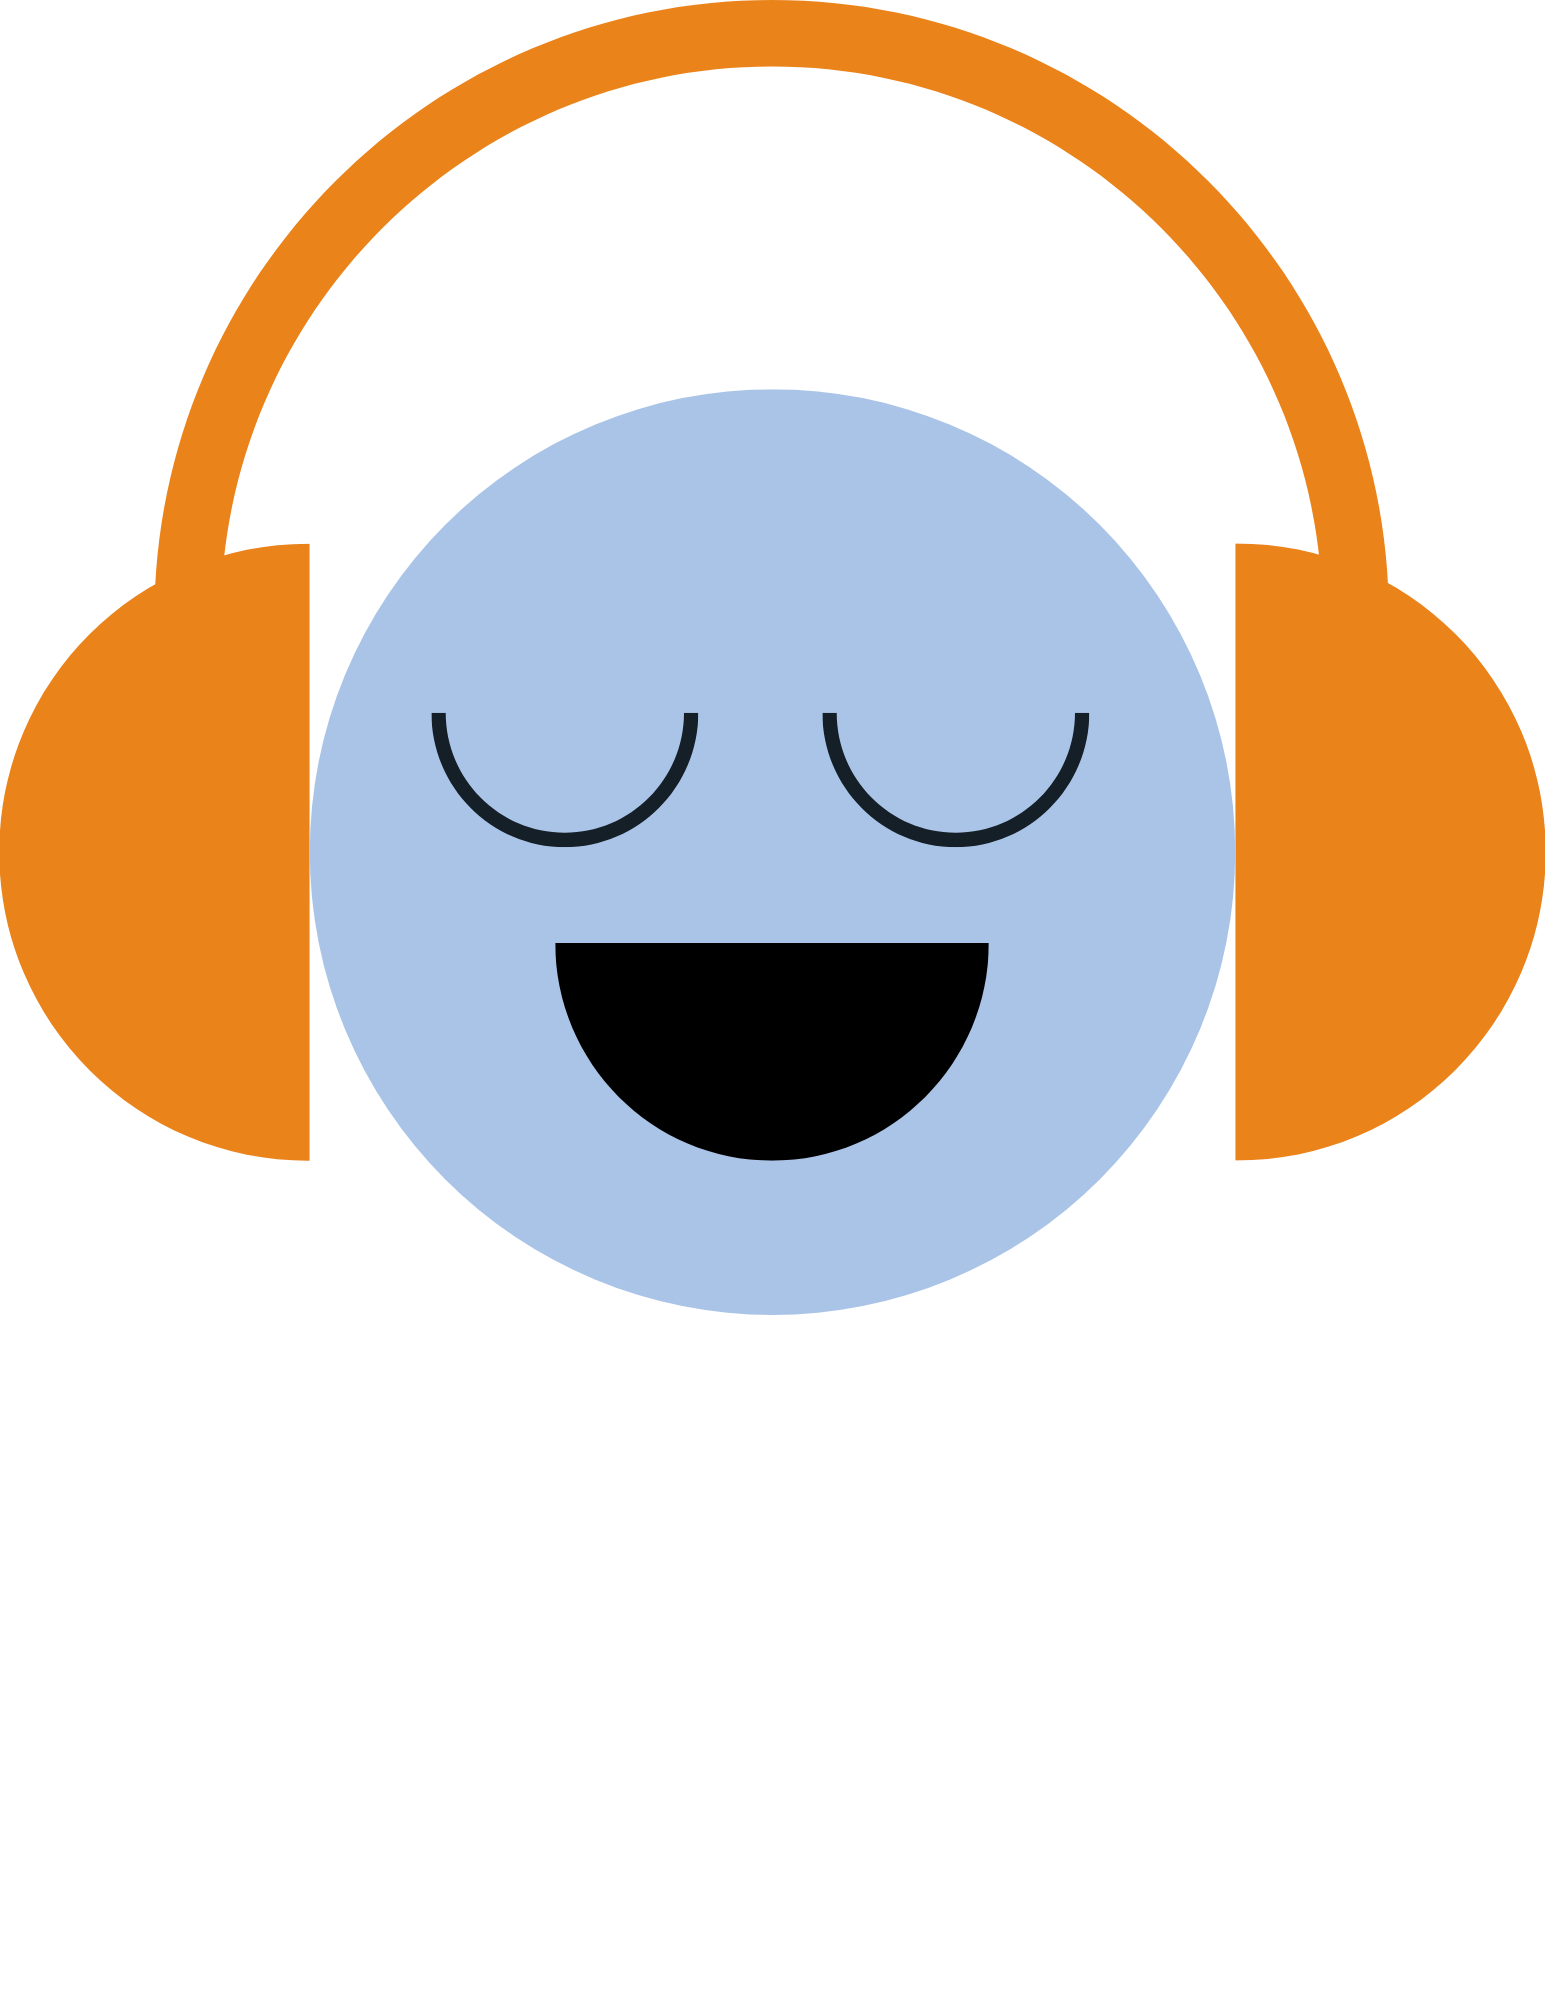
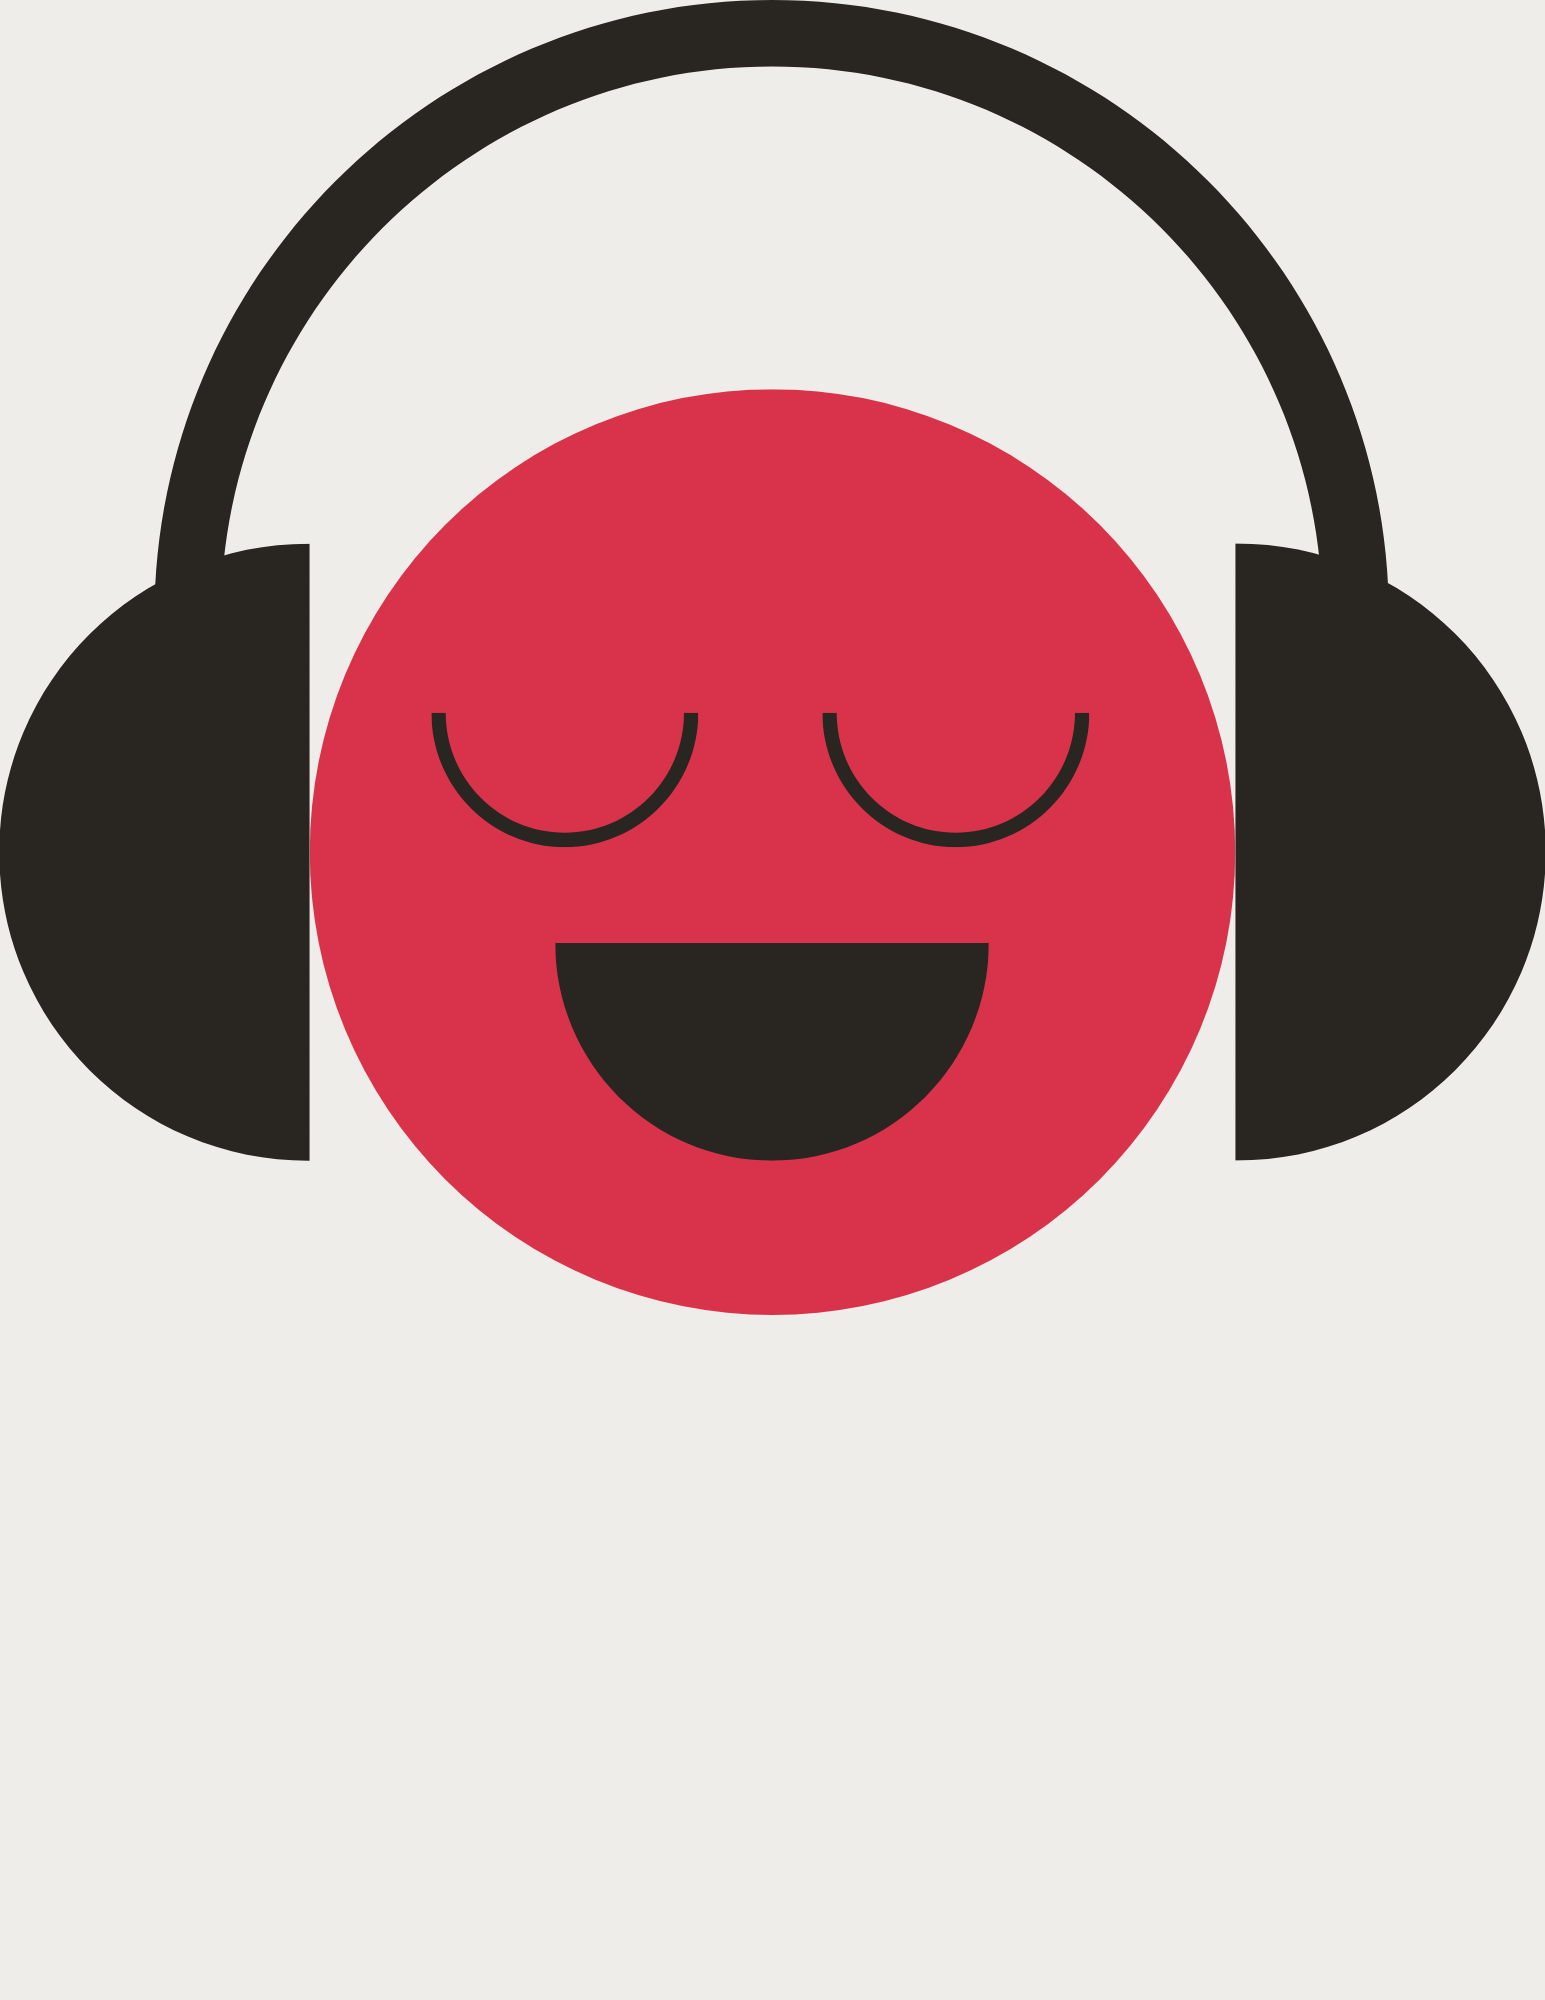
updates css (colors)

diff --git a/styles.css b/styles.css
@@ -1,6 +1,6 @@
 /* General Page Styling */
 body {
-    background-color: #ffffff;
+    background-color: #EFEDE9;
     font-family: "Lato", serif; 
     font-optical-sizing: auto;
     font-weight: normal;
@@ -15,12 +15,12 @@ body {
     left: 0;
     width: 100%;
     padding: 20px 80px;
-    background: #ffffff;
+    background: #EFEDE9;
     display: flex;
     justify-content: space-between;
     align-items: center;
     z-index: 100;
-    box-shadow: 0 0 19px #AAC4E7;
+    box-shadow: 0 0 19px #d8334a;
     height: 85px;
 }
 
@@ -33,7 +33,7 @@ body {
 /* Navigation Links */
 .navbar a {
     font-size: 18px;
-    color: #000000;
+    color: #292521;
     font-weight: 600;
     text-decoration: none;
     margin-left: 30px;
@@ -42,7 +42,7 @@ body {
 }
 
 .navbar a:hover {
-    color: #EB831B;
+    color: #d8334a;
 }
 
 /* Main Content Styling */
@@ -55,7 +55,7 @@ body {
 .title {
     font-size: 50px;
     font-weight: 700;
-    color: #000000;
+    color: #292521;
     margin-bottom: 15px;
     font-family: "Playfair Display", serif;
 }
@@ -72,25 +72,26 @@ body {
     width: 40%;
     padding: 10px;
     font-size: 18px;
-    border: 2px solid #AAC4E7; /* Brown border */
+    border: 2px solid #d8334a; 
     border-radius: 5px;
     outline: none;
 }
 
 .search-btn {
-    background-color: #AAC4E7; 
-    color: white;
+    background-color: #d8334a; 
+    color: #EFEDE9;
     border: none;
     padding: 10px 20px;
     font-size: 18px;
     border-radius: 5px;
     cursor: pointer;
     font-weight: 600;
-    transition: background 0.3s ease-in-out;
+    transition: background 0.3s, transform 0.2s;
 }
 
 .search-btn:hover {
-    background-color: #EB831B;
+    background-color: #bf263c;
+    transform: scale(1.05);
 }
 
 /* Emotion Selection Boxes */
@@ -105,15 +106,15 @@ body {
 
 /* Emotion Box Styling */
 .emotion-box {
-    background-color: #AAC4E7;
-    color: #000000;
+    background-color: #d8334a;
+    color: #EFEDE9;
     border: none;
     padding: 20px;
     font-family: "Lato", serif; 
     font-size: 22px;
     font-weight: 600;
     border-radius: 10px;
-    box-shadow: 0 0 10px #AAC4E7;
+    box-shadow: 0 0 10px #d8334a;
     cursor: pointer;
     transition: background 0.3s, transform 0.2s;
     display: flex;
@@ -132,7 +133,7 @@ body {
 
 /* Hover Effect */
 .emotion-box:hover {
-    background-color: #EB831B;
+    background-color: #bf263c;
     transform: scale(1.05);
 }
 
@@ -140,7 +141,7 @@ body {
 .subtitle {
     font-size: 40px;
     font-weight: 700;
-    color: #000000;
+    color: #292521;
     margin-top: 40px;
     font-family: "Playfair Display", serif; 
 }
@@ -157,8 +158,8 @@ body {
 
 /* Playlist Box Styling */
 .playlist-box {
-    background-color: #AAC4E7;
-    color: #000000;
+    background-color: #d8334a;
+    color: #EFEDE9;
     border: none;
     padding: 20px;
     font-family: "Lato", serif; 
@@ -173,7 +174,7 @@ body {
     justify-content: center;
     height: 140px;
     width: 140px;
-    box-shadow: 0 0 10px #AAC4E7;
+    box-shadow: 0 0 10px #d8334a;
 }
 
 /* FontAwesome Music Icons */
@@ -184,7 +185,7 @@ body {
 
 /* Hover Effect */
 .playlist-box:hover {
-    background-color: #EB831B;
+    background-color: #bf263c;
     transform: scale(1.05);
 }
 
@@ -206,7 +207,7 @@ body {
 
     .navbar a {
         font-size: 18px;
-        color: #000000;
+        color: #292521;
         font-weight: 600;
         text-decoration: none;
         margin-left: 10px;
@@ -215,7 +216,7 @@ body {
     }
 
     .navbar a:hover {
-        color: #EB831B;
+        color: #bf263c;
     }
 
     .navbar {

diff --git a/index.html b/index.html
@@ -22,6 +22,7 @@
             <a href="#savedPlaylist">Saved Playlist</a>
             <a href="#ratings.html">Rankings</a>
             <a href="#InitialPage.html">Log Out</a>
+            <a href="#InitialPage.html">Log Out</a>
         </nav>
     </header>
 
